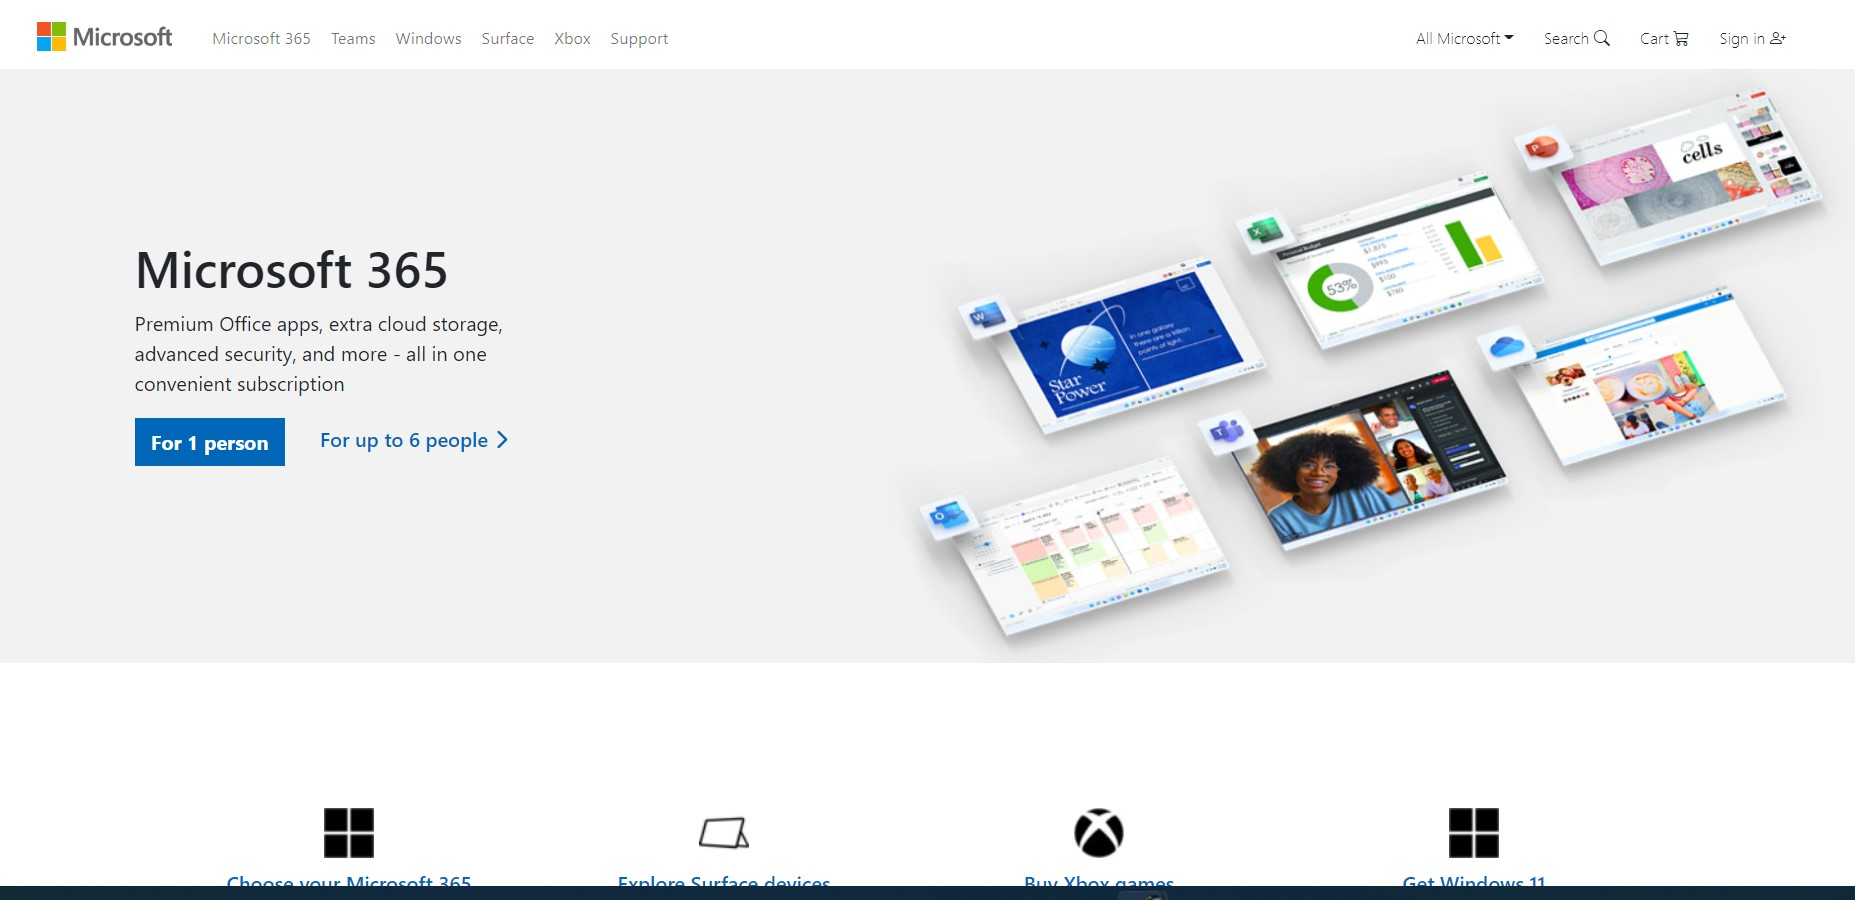
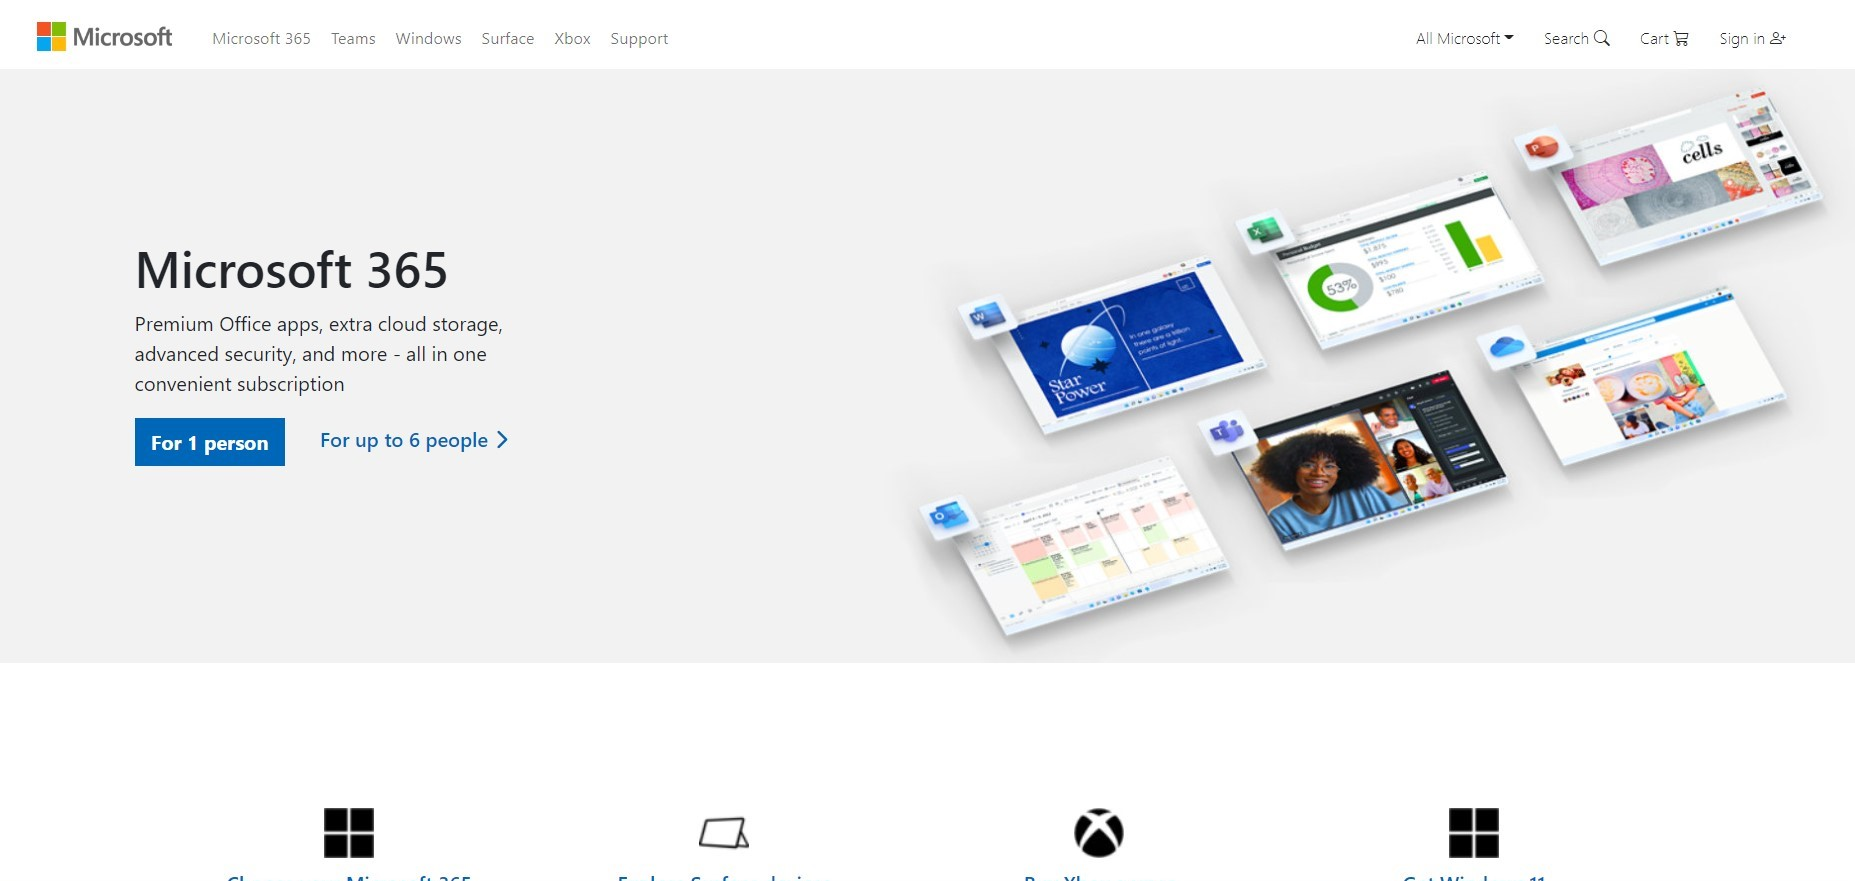
img reduced and portfolio updated

diff --git a/index.html b/index.html
@@ -50,13 +50,12 @@
     <div class="d-flex flex-column">
 
       <div class="profile">
-        <img src="assets/img/new-sqr.png" alt="" class="img-fluid rounded-circle">
+        <img src="assets/img/new-sqr.webp" alt="" class="img-fluid rounded-circle">
         <h1 class="text-light"><a href="index.html">Mohammed Mishal</a></h1>
         <div class="social-links mt-3 text-center">
-          <a href="#" class="twitter"><i class="bx bxl-twitter"></i></a>
-          <a href="#" class="facebook"><i class="bx bxl-facebook"></i></a>
-          <a href="#" class="instagram"><i class="bx bxl-instagram"></i></a>
-          <a href="#" class="linkedin"><i class="bx bxl-linkedin"></i></a>
+          <a href="https://twitter.com/mishal2mk2michu" class="twitter"><i class="bx bxl-twitter"></i></a>
+          <a href="https://www.facebook.com/mishal.mohammed.10/" class="facebook"><i class="bx bxl-facebook"></i></a>
+          <a href="https://www.linkedin.com/in/mishalmohammed/" class="linkedin"><i class="bx bxl-linkedin"></i></a>
 
         </div>
       </div>
@@ -99,7 +98,7 @@
 
         <div class="row">
           <div class="col-lg-4" data-aos="fade-right">
-            <img src="assets/img/profile-img.jpg" class="img-fluid" alt="">
+            <img src="assets/img/profile-img.webp" class="img-fluid" alt="">
           </div>
           <div class="col-lg-8 pt-4 pt-lg-0 content" data-aos="fade-left">
             <h3>MEAN Stack Developer.</h3>
@@ -376,49 +375,49 @@
 
           <div class=" col-12 portfolio-item filter-web">
             <div class="portfolio-wrap">
-              <img src="assets/img/portfolio/Apple-clone.jpg" class="img-fluid" alt="">
+              <img src="assets/img/portfolio/Apple-clone.webp" class="img-fluid" alt="">
               <div class="portfolio-links">
-                <a href="assets/img/portfolio/portfolio-1.jpg" data-gallery="portfolioGallery"
-                  class="portfolio-lightbox" title="App 1"><i class="bx bx-plus"></i></a>
-                <a href="portfolio-details.html" title="More Details"><i class="bx bx-link"></i></a>
+                <a href="assets/img/portfolio/Apple-clone.webp" data-gallery="portfolioGallery"
+                  class="portfolio-lightbox" title="Apple"><i class="bx bx-plus"></i></a>
+                <a href="https://mishalbasheer.github.io/AppleClone/" title="More Details"><i class="bx bx-link"></i></a>
               </div>
             </div>
           </div>
-
+          
           <div class=" col-12 portfolio-item filter-web">
             <div class="portfolio-wrap">
-              <img src="assets/img/portfolio/microsoft-clone.jpg" class="img-fluid" alt="">
+              <img src="assets/img/portfolio/microsoft-clone.webp" class="img-fluid" alt="">
               <div class="portfolio-links">
-                <a href="assets/img/portfolio/portfolio-2.jpg" data-gallery="portfolioGallery"
-                  class="portfolio-lightbox" title="Web 3"><i class="bx bx-plus"></i></a>
-                <a href="portfolio-details.html" title="More Details"><i class="bx bx-link"></i></a>
+                <a href="assets/img/portfolio/microsoft-clone.webp" data-gallery="portfolioGallery"
+                  class="portfolio-lightbox" title="Microsoft"><i class="bx bx-plus"></i></a>
+                <a href="https://mishalbasheer.github.io/MicrosoftClone/" title="More Details"><i class="bx bx-link"></i></a>
               </div>
             </div>
           </div>
 
           <div class="col-12 portfolio-item filter-web">
             <div class="portfolio-wrap">
-              <img src="assets/img/portfolio/solar-proj.jpg" class="img-fluid" alt="">
+              <img src="assets/img/portfolio/solar-proj.webp" class="img-fluid" alt="">
               <div class="portfolio-links">
-                <a href="assets/img/portfolio/portfolio-3.jpg" data-gallery="portfolioGallery"
-                  class="portfolio-lightbox" title="App 2"><i class="bx bx-plus"></i></a>
-                <a href="portfolio-details.html" title="More Details"><i class="bx bx-link"></i></a>
+                <a href="assets/img/portfolio/solar-proj.webp" data-gallery="portfolioGallery"
+                  class="portfolio-lightbox" title="Solar Web Project"><i class="bx bx-plus"></i></a>
+                <a href="https://mishalbasheer.github.io/SolarWebProject/" title="More Details"><i class="bx bx-link"></i></a>
               </div>
             </div>
           </div>
-
-        
-
+          
           <div class="col-12 portfolio-item filter-web">
             <div class="portfolio-wrap">
-              <img src="assets/img/portfolio/tin-dog.jpg" class="img-fluid" alt="">
+              <img src="assets/img/portfolio/tin-dog.webp" class="img-fluid" alt="">
               <div class="portfolio-links">
-                <a href="assets/img/portfolio/portfolio-5.jpg" data-gallery="portfolioGallery"
-                  class="portfolio-lightbox" title="Web 2"><i class="bx bx-plus"></i></a>
-                <a href="portfolio-details.html" title="More Details"><i class="bx bx-link"></i></a>
+                <a href="assets/img/portfolio/tin-dog.webp" data-gallery="portfolioGallery"
+                  class="portfolio-lightbox" title="Tindog"><i class="bx bx-plus"></i></a>
+                <a href="https://mishalbasheer.github.io/TinDog/" title="More Details"><i class="bx bx-link"></i></a>
               </div>
             </div>
           </div>
+          
+
 
           <!-- <div class="col-lg-4 col-md-6 portfolio-item filter-app">
             <div class="portfolio-wrap">

diff --git a/assets/css/style.css b/assets/css/style.css
@@ -228,7 +228,7 @@ h6 {
 #hero {
   width: 100%;
   height: 100vh;
-  background: url("../img/hero-bg\(real\).jpg") top center;
+  background: url("../img/hero-bg\(real\).webp") top center;
   background-size: cover;
 }
 
